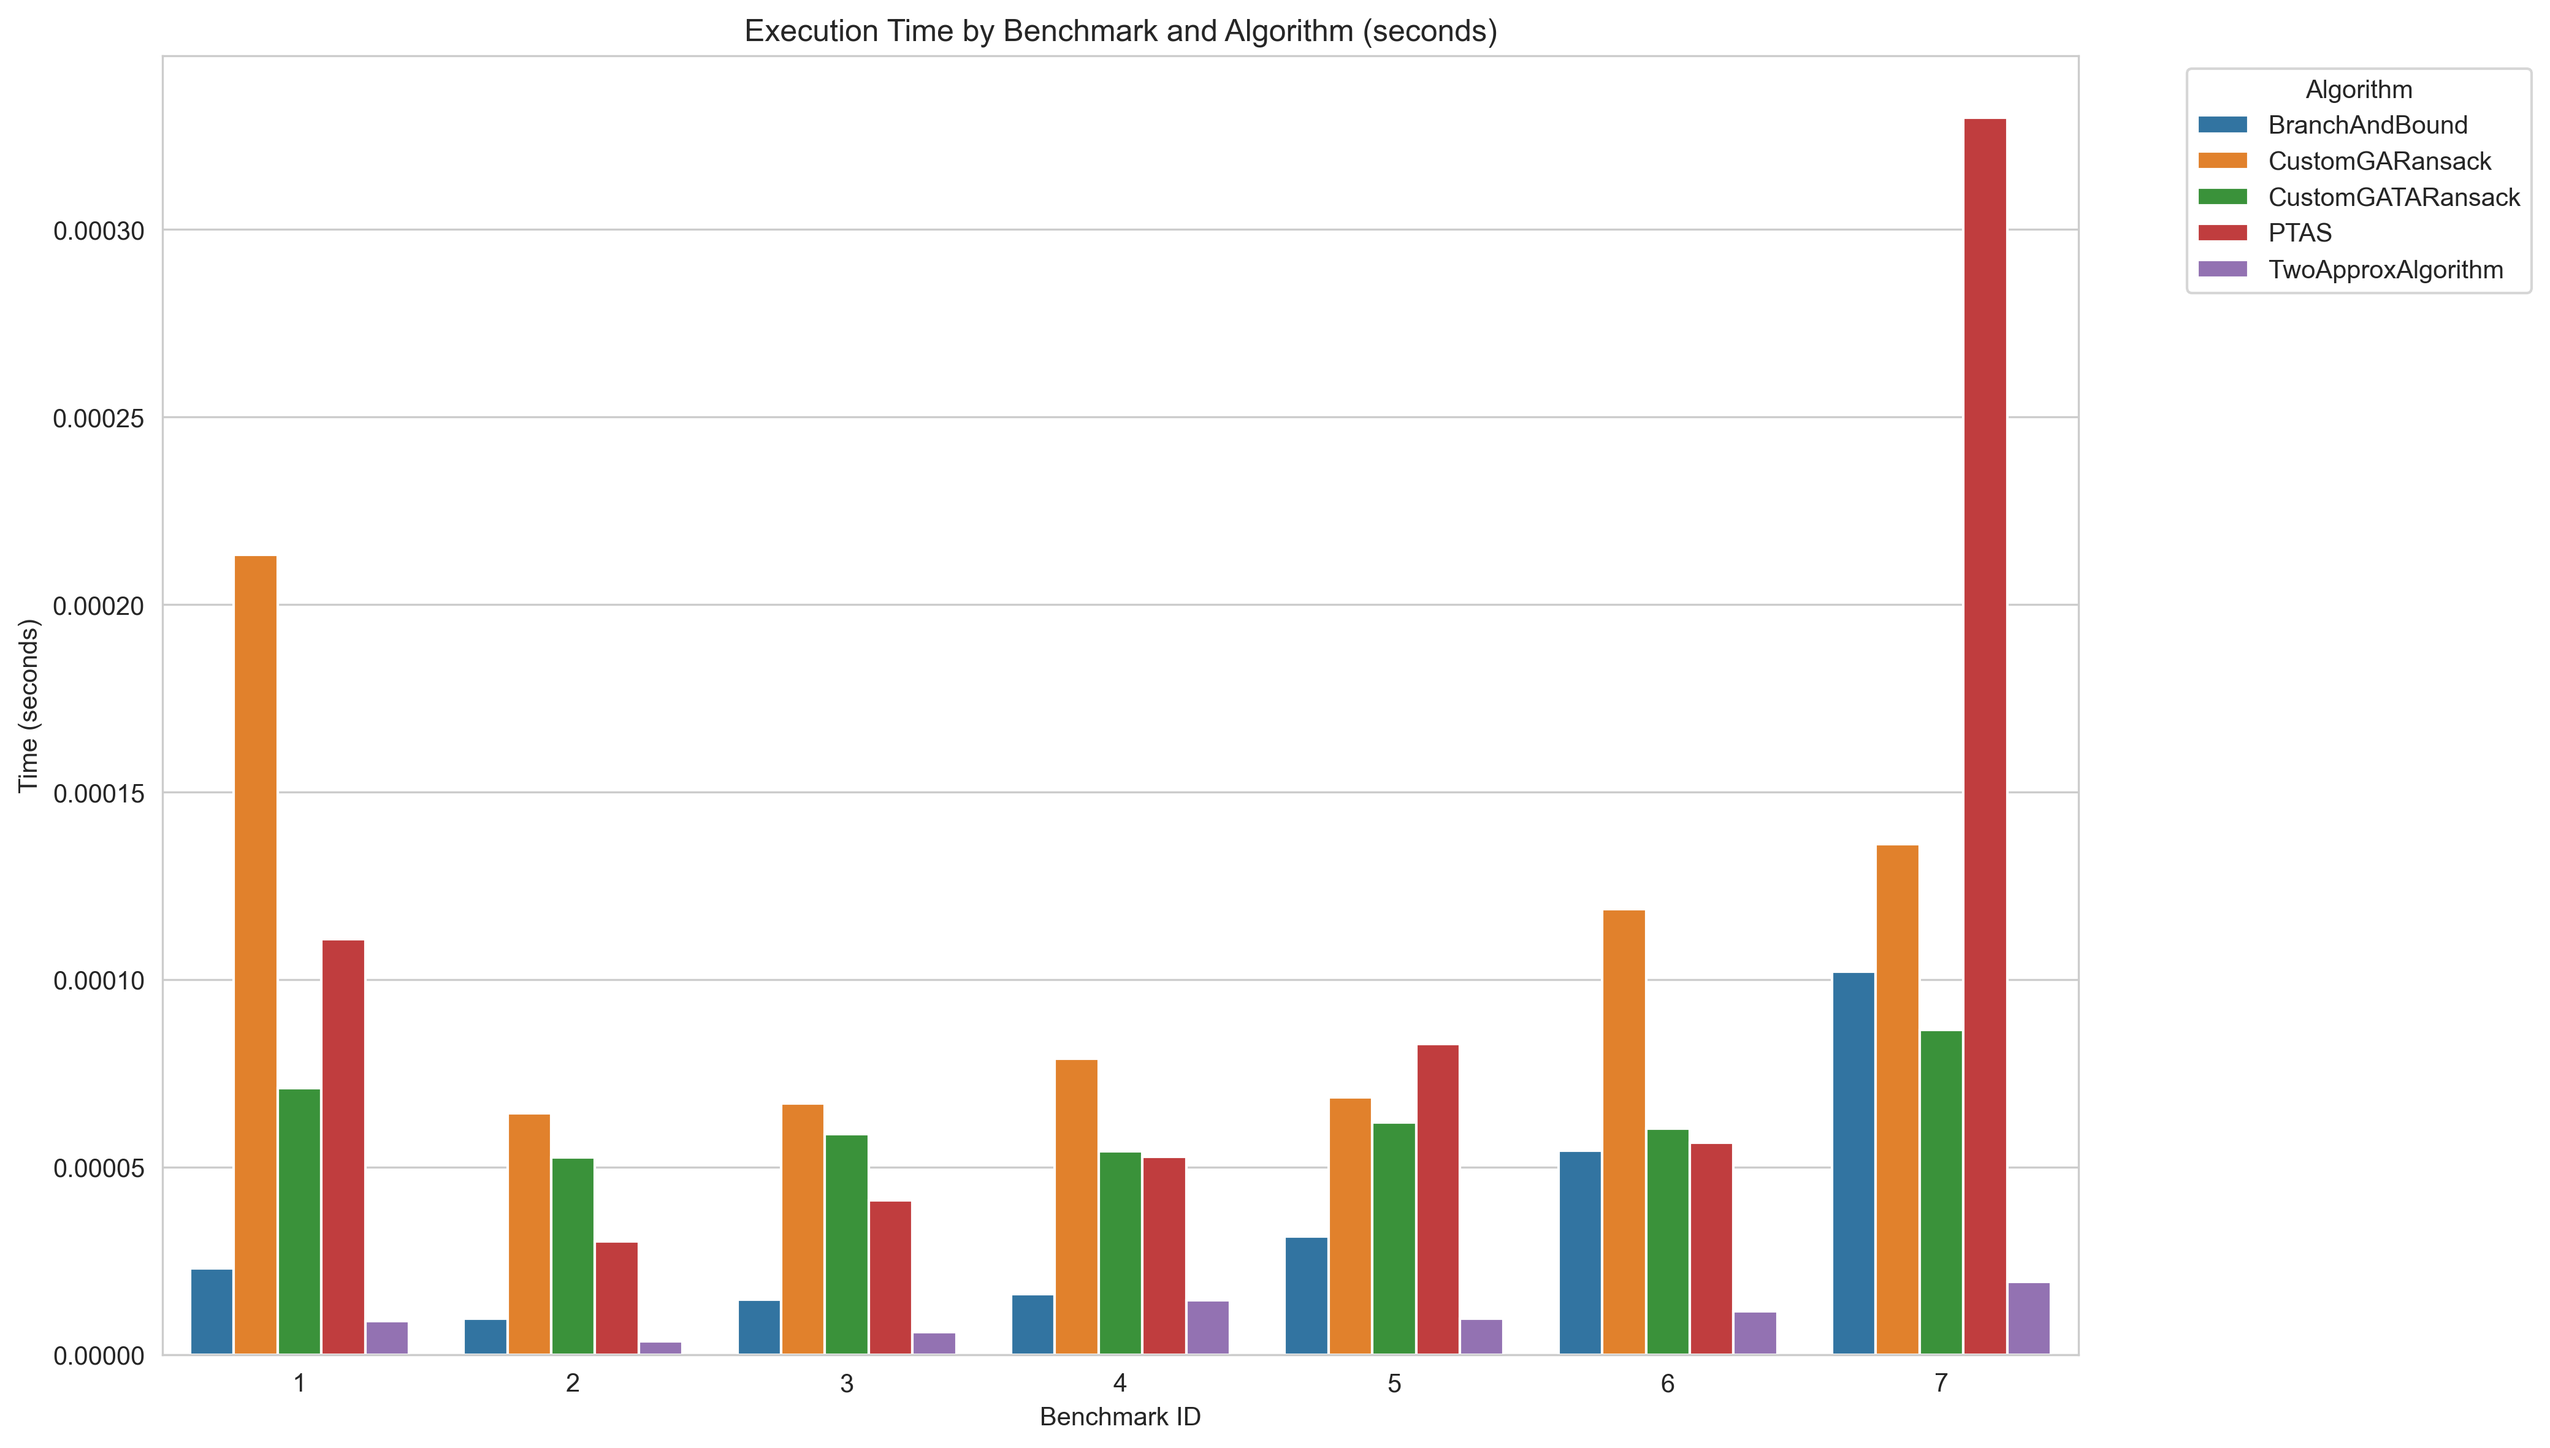
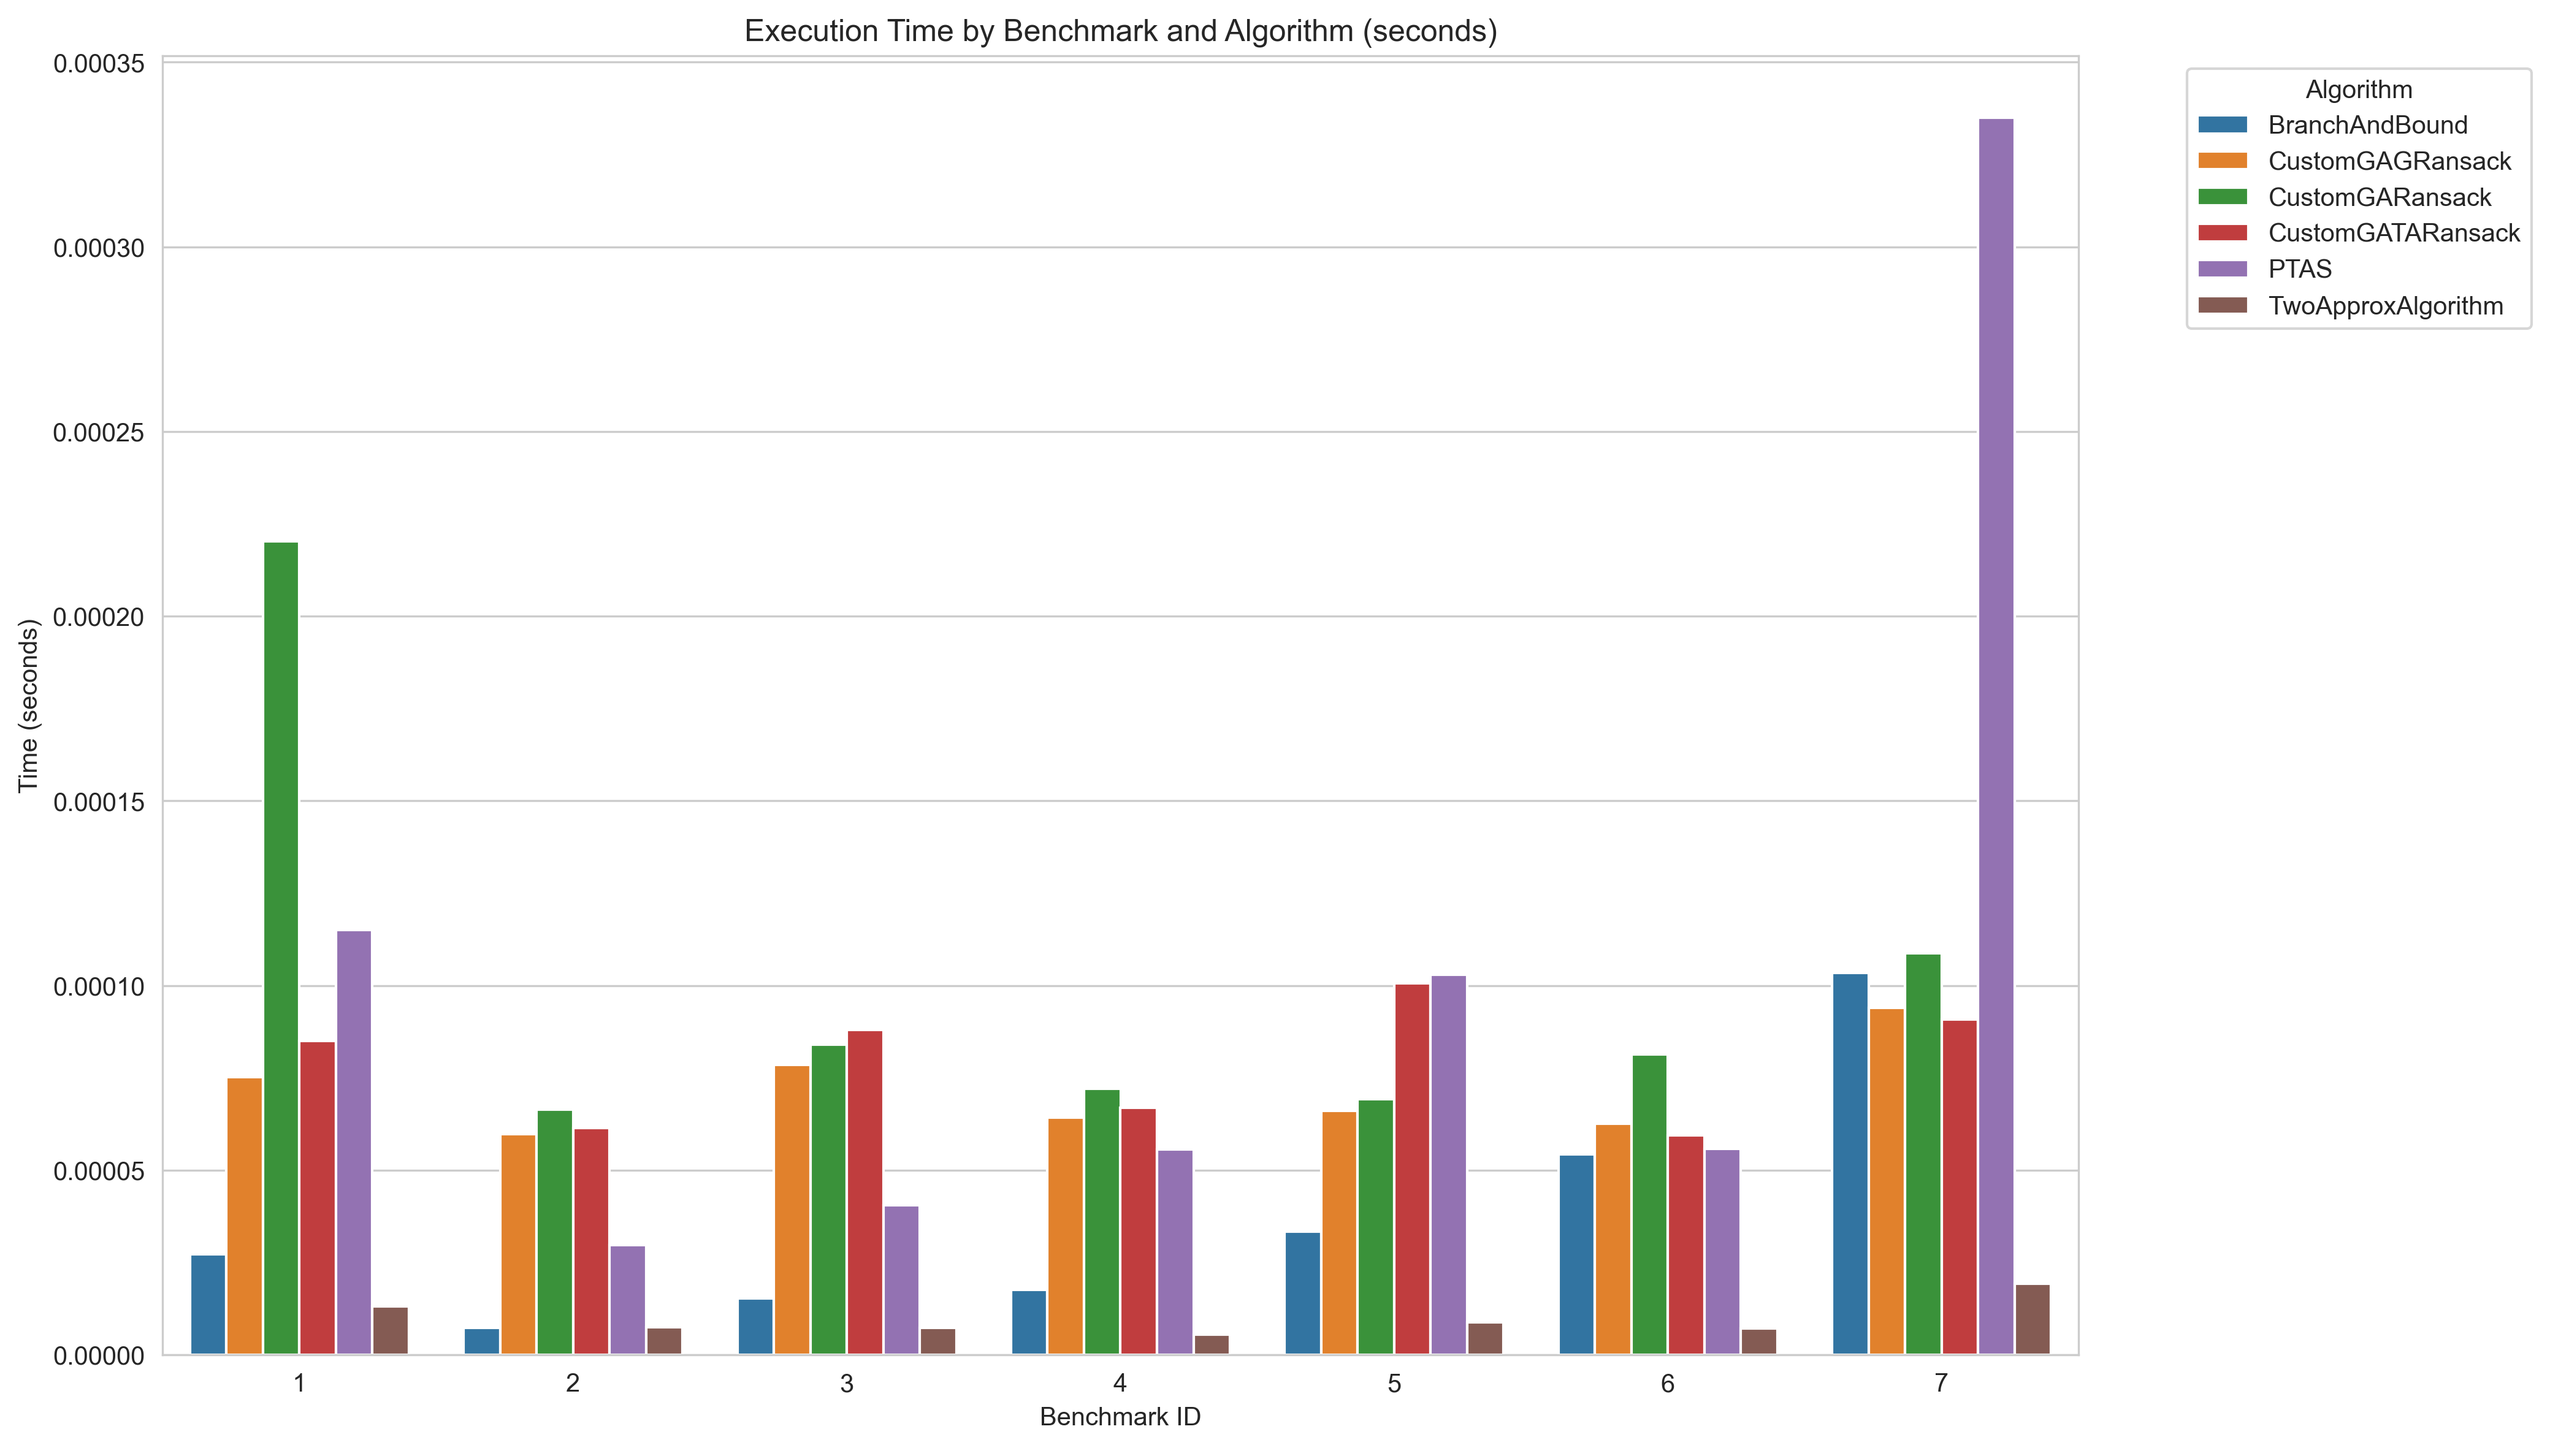
Add 2 classes with TwoApprox + Greed algo as init for Genetic

diff --git a/src/algorithms.py b/src/algorithms.py
@@ -175,6 +175,44 @@ class GeneticAlgorithmTwoApprox(GeneticAlgorithm):
         return population
 
 
+class GeneticAlgorithmGreed(GeneticAlgorithm):
+    def __init__(self, data: KnapsackData,
+                 population_size: int = 100,
+                 generations: int = 100,
+                 crossover_rate: float = 0.8,
+                 mutation_rate: float = 0.1,
+                 tournament_size: int = 3,
+                 elitism: bool = True):
+        super().__init__(data, population_size, generations, crossover_rate, mutation_rate, tournament_size, elitism)
+        self.alg = TwoApproxAlgorithm(data)
+
+    def initialize_population(self) -> List[List[int]]:
+        """Полностью жадная инициализация популяции с вариациями"""
+        population = []
+        sorted_items = sorted(
+            [(i, self.values[i] / self.weights[i]) for i in range(self.num_items)],
+            key=lambda x: -x[1]
+        )
+
+        for _ in range(self.population_size):
+            individual = [0] * self.num_items
+            remaining_capacity = self.capacity
+
+            for i, _ in sorted_items:
+                if self.weights[i] <= remaining_capacity:
+                    individual[i] = 1
+                    remaining_capacity -= self.weights[i]
+
+            if random.random() < 0.3:
+                ones = [i for i, val in enumerate(individual) if val == 1]
+                if ones:
+                    individual[random.choice(ones)] = 0
+
+            population.append(individual)
+
+        return population
+
+
 class TwoApproxAlgorithm(Algorithm):
     def greed_search(self):
         qualities = {i: value / weight for i, weight in enumerate(self.weights) for value in self.values}

diff --git a/src/benchmarks.py b/src/benchmarks.py
@@ -2,7 +2,7 @@ import os
 from typing import Type, Tuple
 import pandas as pd
 from src.algorithms import GeneticAlgorithm, read_knapsack_data, Algorithm, FilesKnapsack, TwoApproxAlgorithm, DPWeights, BranchAndBound, \
-    PTAS, GeneticAlgorithmTwoApprox
+    PTAS, GeneticAlgorithmTwoApprox, GeneticAlgorithmGreed
 
 
 class Benchmark:
@@ -123,6 +123,23 @@ if __name__ == '__main__':
         'tournament_size': 3,
         'elitism': True
     }
+    custom_gata_params = {
+        'population_size': 3,
+        'generations': 2,
+        'crossover_rate': 0.85,
+        'mutation_rate': 0.4,
+        'tournament_size': 3,
+        'elitism': True
+    }
+
+    custom_gag_params = {
+        'population_size': 3,
+        'generations': 2,
+        'crossover_rate': 0.85,
+        'mutation_rate': 0.4,
+        'tournament_size': 3,
+        'elitism': True
+    }
 
     class CustomGARansack(GeneticAlgorithm):
         def __init__(self, data):
@@ -130,7 +147,11 @@ if __name__ == '__main__':
 
     class CustomGATARansack(GeneticAlgorithmTwoApprox):
         def __init__(self, data):
-            super().__init__(data, **custom_ga_params)
+            super().__init__(data, **custom_gata_params)
 
-    benchmark = Benchmark(algorithm_classes=(CustomGARansack,TwoApproxAlgorithm, DPWeights, BranchAndBound, PTAS, CustomGATARansack), runs=1)
+    class CustomGAGRansack(GeneticAlgorithmTwoApprox):
+        def __init__(self, data):
+            super().__init__(data, **custom_gag_params)
+
+    benchmark = Benchmark(algorithm_classes=(CustomGARansack,TwoApproxAlgorithm, DPWeights, BranchAndBound, PTAS, CustomGATARansack, CustomGAGRansack), runs=1)
     benchmark.run_all_benchmarks()
